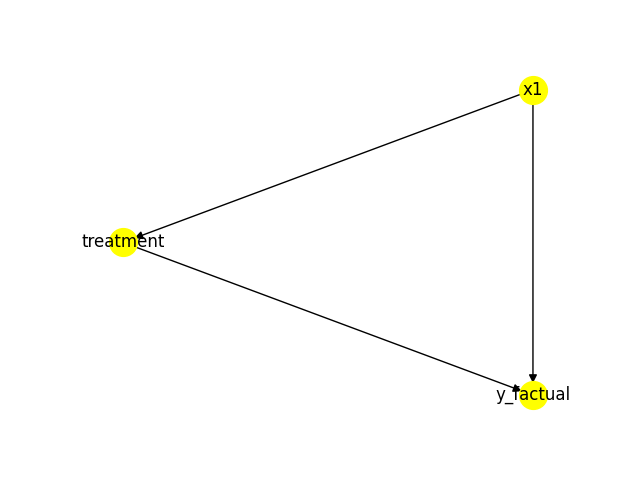
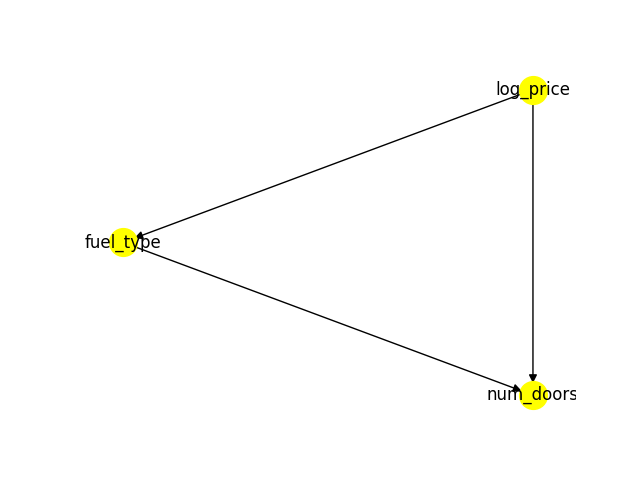
Funcion Display Causal Graph terminada

Changed region(s): [[0.125, 0.4688, 0.25, 0.5312], [0.7812, 0.1562, 0.9062, 0.2188], [0.75, 0.8125, 0.9062, 0.8438]]

diff --git a/Interfaz/dowhyMethods/causalGraph.py b/Interfaz/dowhyMethods/causalGraph.py
@@ -1,7 +1,23 @@
 
 
+from tkinter import NW
+
+
 def generateCausalGraph(model):
     model.view_model()
     from IPython.display import Image, display
     display(Image(filename="causal_model.png"))
+    showCausalGraph()
 
+def showCausalGraph():
+    from PIL import Image, ImageTk
+    from tkinter import Canvas
+
+    img = Image.open("causal_model.png")
+    causal_graph_canvas = Canvas(width= 500, height= 400)
+    causal_graph_canvas.place(x=350, y=150)
+    img = Image.open("causal_model.png")
+    resize_img = img.resize((500, 400), Image.ANTIALIAS)
+    causal_graph = ImageTk.PhotoImage(resize_img)
+    causal_graph_canvas.create_image(0, 0, anchor='nw', image=causal_graph)
+    causal_graph_canvas.image = causal_graph

diff --git a/Interfaz/dowhyMethods/estimate.py b/Interfaz/dowhyMethods/estimate.py
@@ -49,6 +49,15 @@ def estimate_effect(model, doWhySettings):
                             "fit_params":{}})
         print('dml')
     print("Causal Estimate is " + str(estimate.value))
+
+    showEstimateResults(estimate)
     
     return identified_estimand, estimate
 
+def showEstimateResults(estimate):
+    from tkinter import Tk, Canvas, Label, Button
+    from tkinter.font import Font
+    from PIL import Image, ImageTk
+
+    result_canvas = Canvas( width= 500, height= 400, bg='red')
+    result_canvas.place(x=350, y=150)

diff --git a/Interfaz/dowhyMethods/buildCausalModel.py b/Interfaz/dowhyMethods/buildCausalModel.py
@@ -16,7 +16,7 @@ def generateCausalModel(doWhySettings):
 
     # --------------------- Leer archivo de datos ---------------------
     data = pd.read_csv(doWhySettings['file_path'], header = 0)
-    data = data.astype({"treatment":'bool'}, copy=False)
+    #data = data.astype({"treatment":'bool'}, copy=False)
 
     # --------------------- Crea modelo causal ---------------------
     model=CausalModel(
